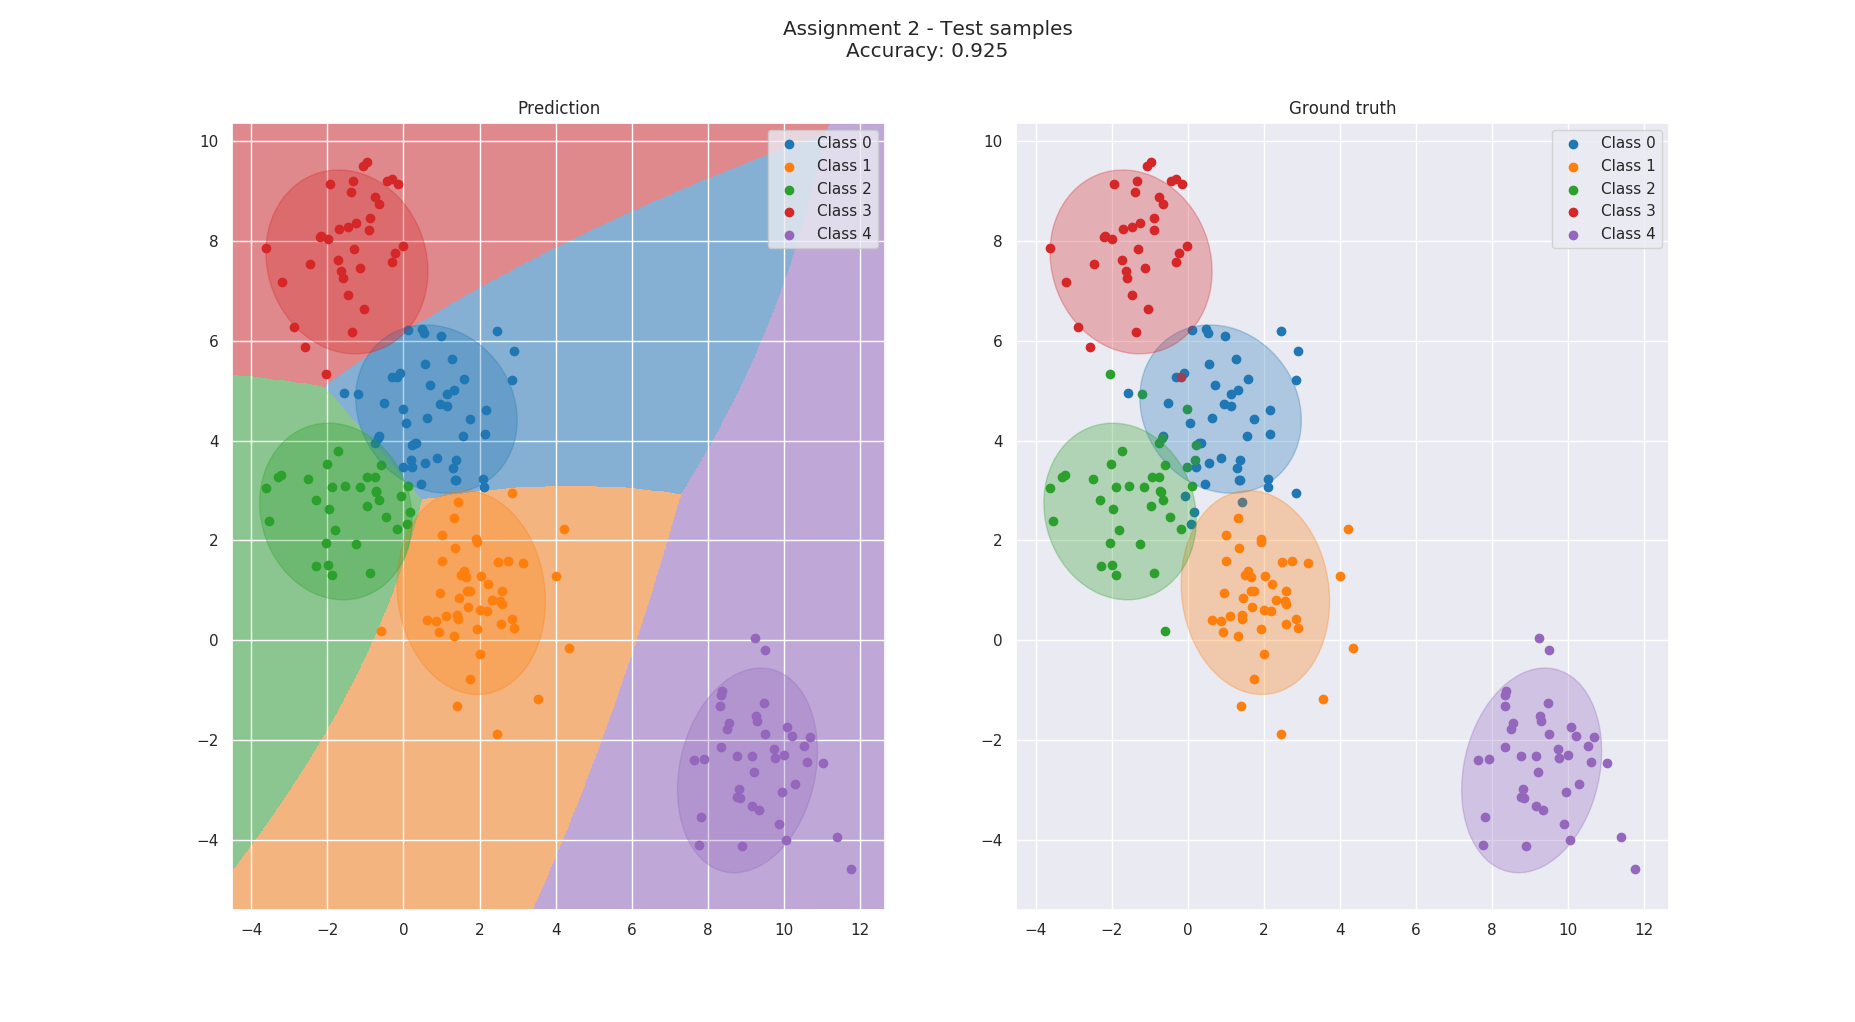
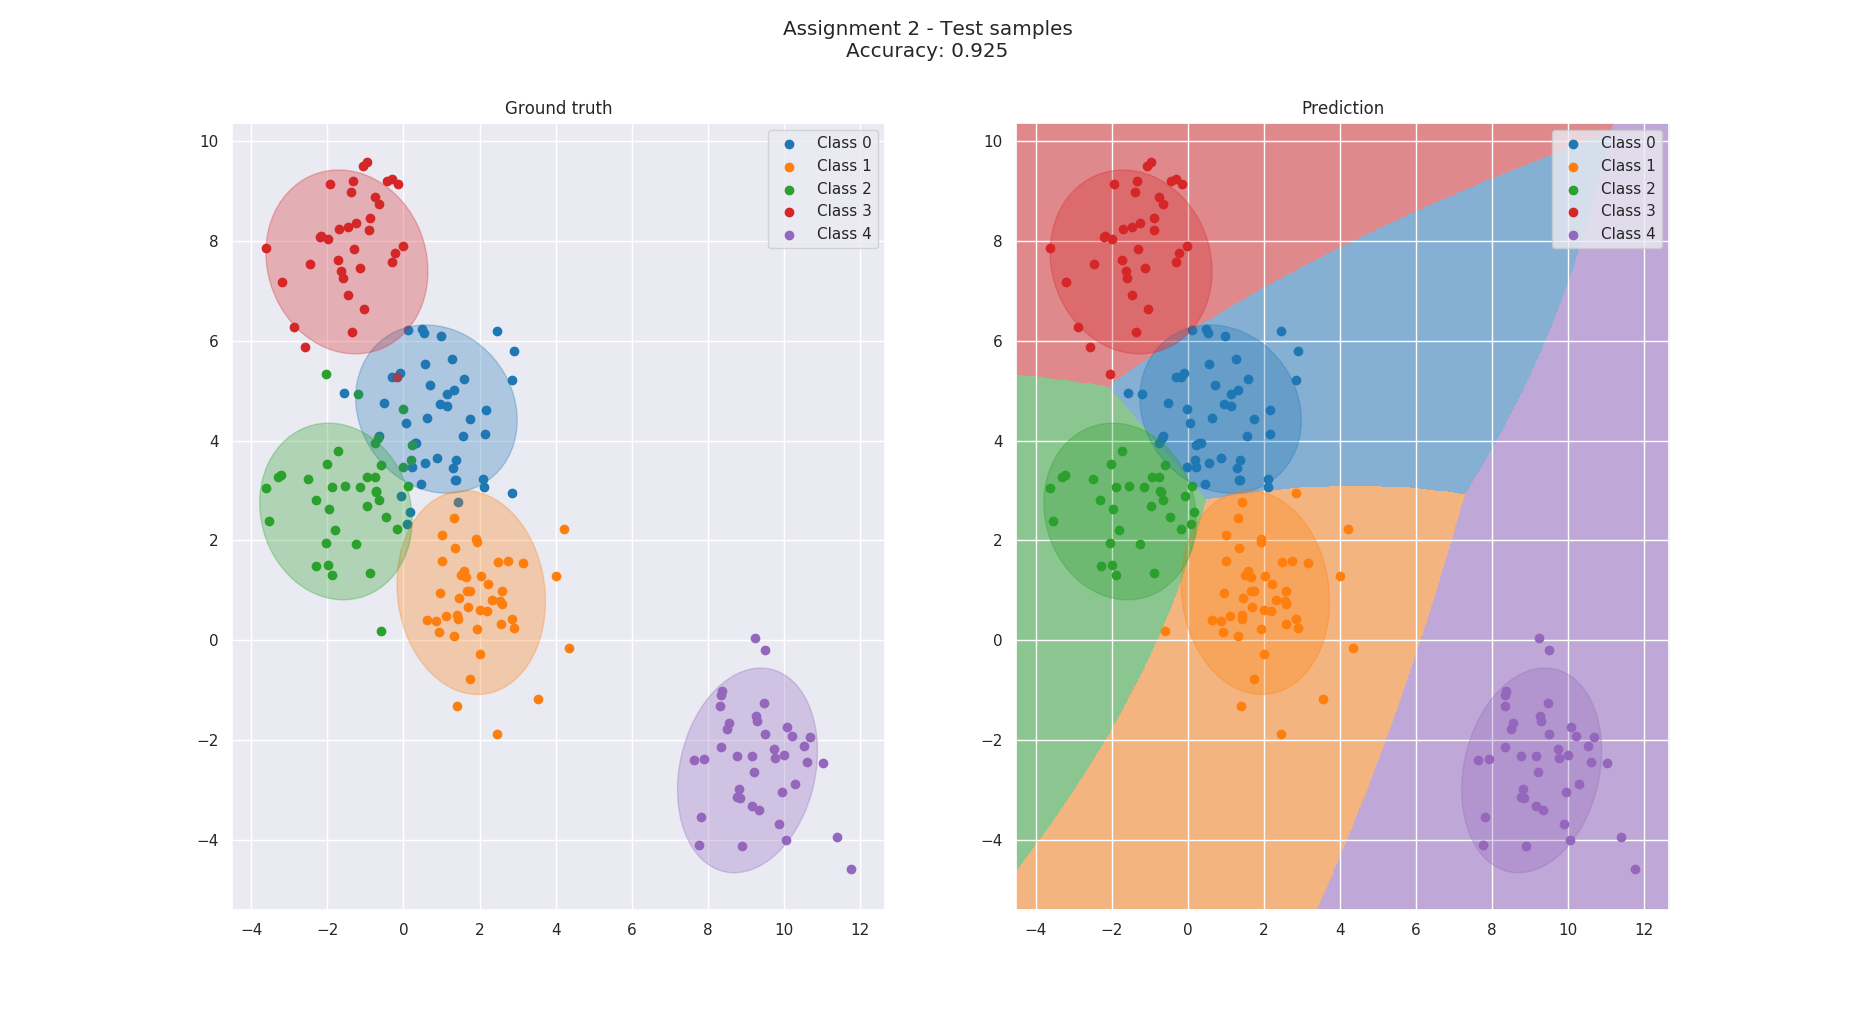
Assignment 3 runs on all datasets but Olivetti

diff --git a/bayesian_learning/assignment.py b/bayesian_learning/assignment.py
@@ -3,7 +3,10 @@ import seaborn as sns
 from sklearn.datasets.samples_generator import make_blobs
 
 import bayesian_learning.bayesian_classifier as bc
+import numpy as np
 import bayesian_learning.plotting as plotting
+from prettytable import PrettyTable
+import bayesian_learning.dataset as dataset
 
 sns.set()
 
@@ -78,22 +81,22 @@ def assignment2():
     fig, (ax1, ax2) = plt.subplots(1, 2)
     plotting.plot_gaussian(ax=ax1,
                            samples=test_samples,
-                           labels=test_predictions,
-                           mu=bayes_classifier.mu,
-                           sigma=bayes_classifier.sigma)
-    plotting.plot_boudaries(ax=ax1,
-                            classifier=bayes_classifier,
-                            grid_size=1000)
-    ax1.legend()
-    ax1.set_title('Prediction')
-
-    plotting.plot_gaussian(ax=ax2,
-                           samples=test_samples,
                            labels=test_labels,
                            mu=bayes_classifier.mu,
                            sigma=bayes_classifier.sigma)
+    ax1.legend()
+    ax1.set_title('Ground truth')
+
+    plotting.plot_gaussian(ax=ax2,
+                           samples=test_samples,
+                           labels=test_predictions,
+                           mu=bayes_classifier.mu,
+                           sigma=bayes_classifier.sigma)
+    plotting.plot_boudaries(ax=ax2,
+                            classifier=bayes_classifier,
+                            grid_size=1000)
     ax2.legend()
-    ax2.set_title('Ground truth')
+    ax2.set_title('Prediction')
 
     fig.suptitle('Assignment 2 - Test samples\n'
                  'Accuracy: {:.3f}'.format(test_accuracy))
@@ -102,15 +105,79 @@ def assignment2():
 
 
 def assignment3():
-    pass
+    print('Assignment 3')
+    print('Test your Bayesian Classifier on real datasets.')
+
+    num_trials = 100
+
+    pretty_table = PrettyTable()
+    pretty_table.field_names = ['Dataset', 'Non naive', 'Naive']
+
+    datasets = [
+        dataset.DatasetNames.IRIS,
+        dataset.DatasetNames.WINE,
+        dataset.DatasetNames.VOWEL,
+    ]
+    for dataset_name in datasets:
+        samples, labels, _ = dataset.load_dataset(dataset_name)
+
+        accuracies = []
+        naive_accuracies = []
+        for trial_idx in range(num_trials):
+            (training_samples,
+             training_labels,
+             test_samples,
+             test_labels,
+             training_indices,
+             test_indices) = dataset.split_dataset(samples=samples,
+                                                   labels=labels,
+                                                   train_fraction=0.5,
+                                                   balance_classes=True,
+                                                   seed=trial_idx)
+
+            # Non-naive classifier.
+            classifier = bc.BayesClassifier.train(samples=training_samples,
+                                                  labels=training_labels,
+                                                  naive=False)
+            test_predictions = classifier.classify(samples=test_samples)
+            test_accuracy = bc.evaluate_accuracy(predictions=test_predictions,
+                                                 labels=test_labels)
+            accuracies.append(test_accuracy)
+
+            # Naive classifier.
+            naive_classifier = bc.BayesClassifier.train(samples=training_samples,
+                                                        labels=training_labels,
+                                                        naive=True)
+            naive_test_predictions = naive_classifier.classify(samples=test_samples)
+            naive_test_accuracy = bc.evaluate_accuracy(
+                predictions=naive_test_predictions, labels=test_labels)
+            naive_accuracies.append(naive_test_accuracy)
+
+        mean_accuracy = np.mean(accuracies)
+        std_accuracy = np.std(accuracies)
+        naive_mean_accuracy = np.mean(naive_accuracies)
+        naive_std_accuracy = np.std(naive_accuracies)
+
+        def _format_acc(mean_, std_):
+            acc_str = '{:.3f} +/- {:.3f}'.format(mean_, std_)
+            return acc_str
+
+        pretty_table.add_row([dataset_name.value,
+                              _format_acc(mean_accuracy, std_accuracy),
+                              _format_acc(naive_mean_accuracy,
+                                          naive_std_accuracy)])
+
+    print()
+    print('Mean accuracy on test set ({} trials)'.format(num_trials))
+    print(pretty_table)
 
 
 def main():
     # assignment1()
     # _separator()
-    assignment2()
+    # assignment2()
     # _separator()
-    # assignment3()
+    assignment3()
 
 
 if __name__ == '__main__':
